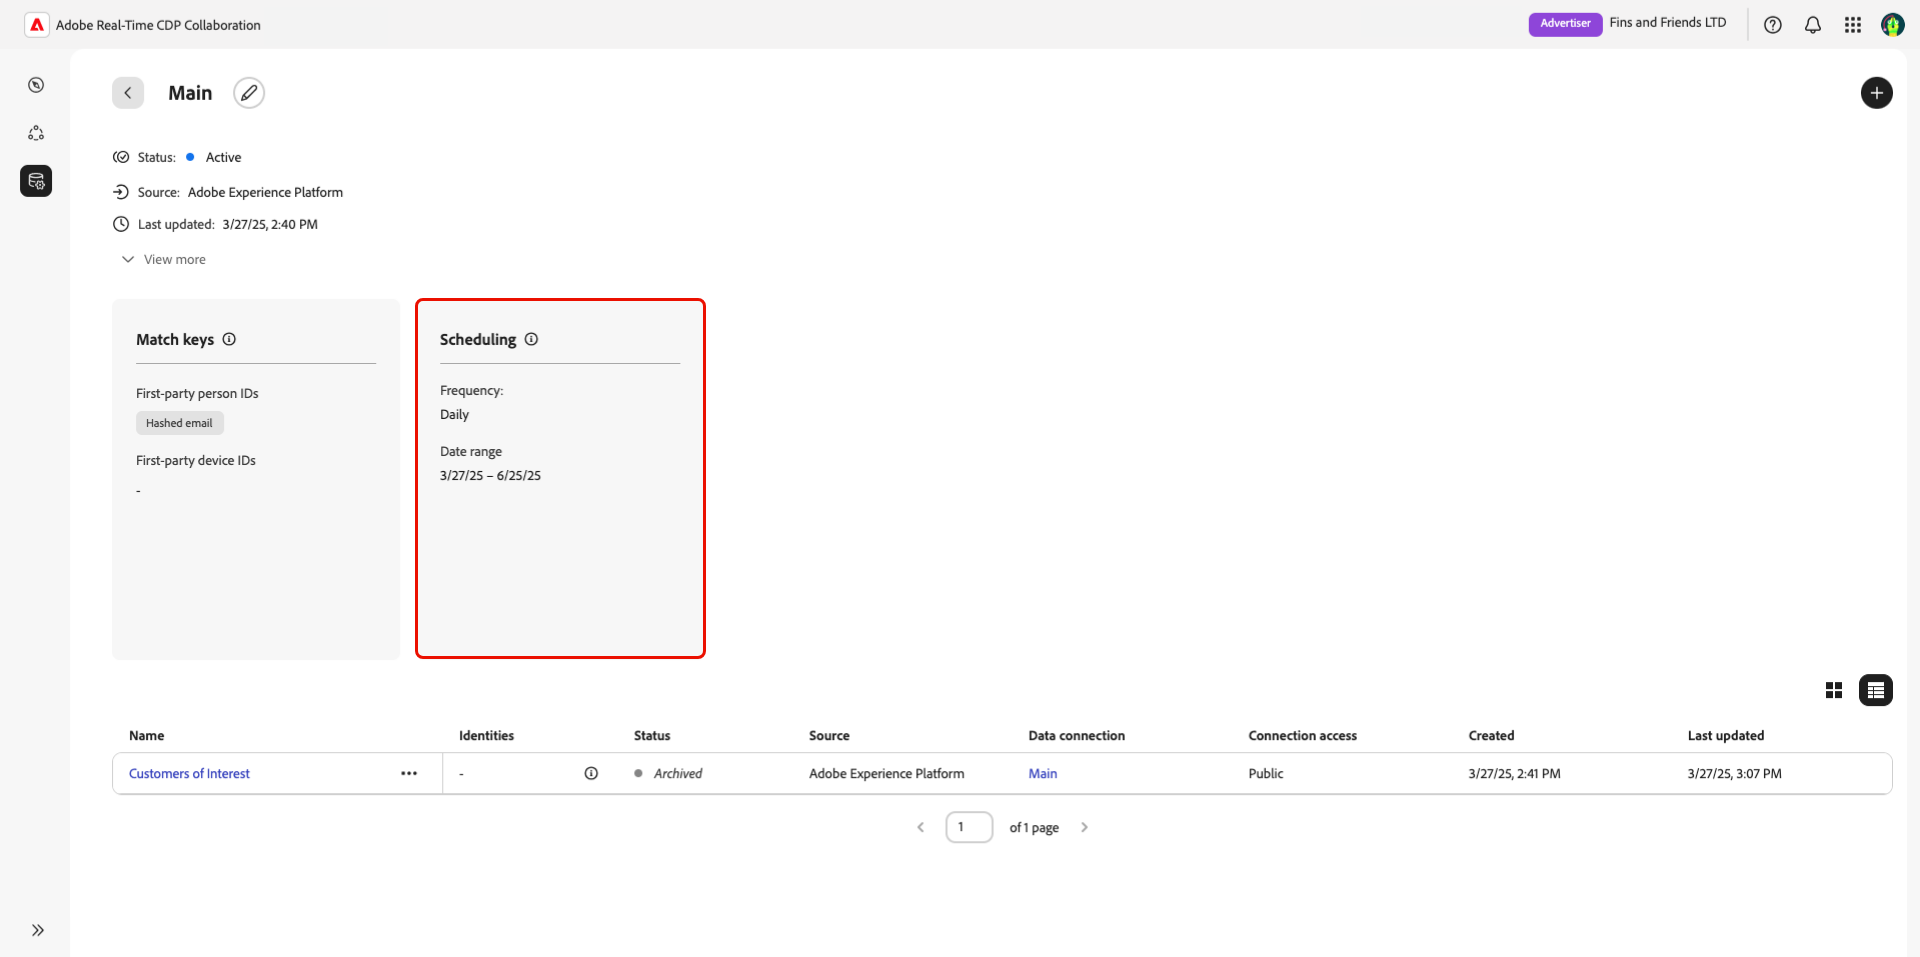
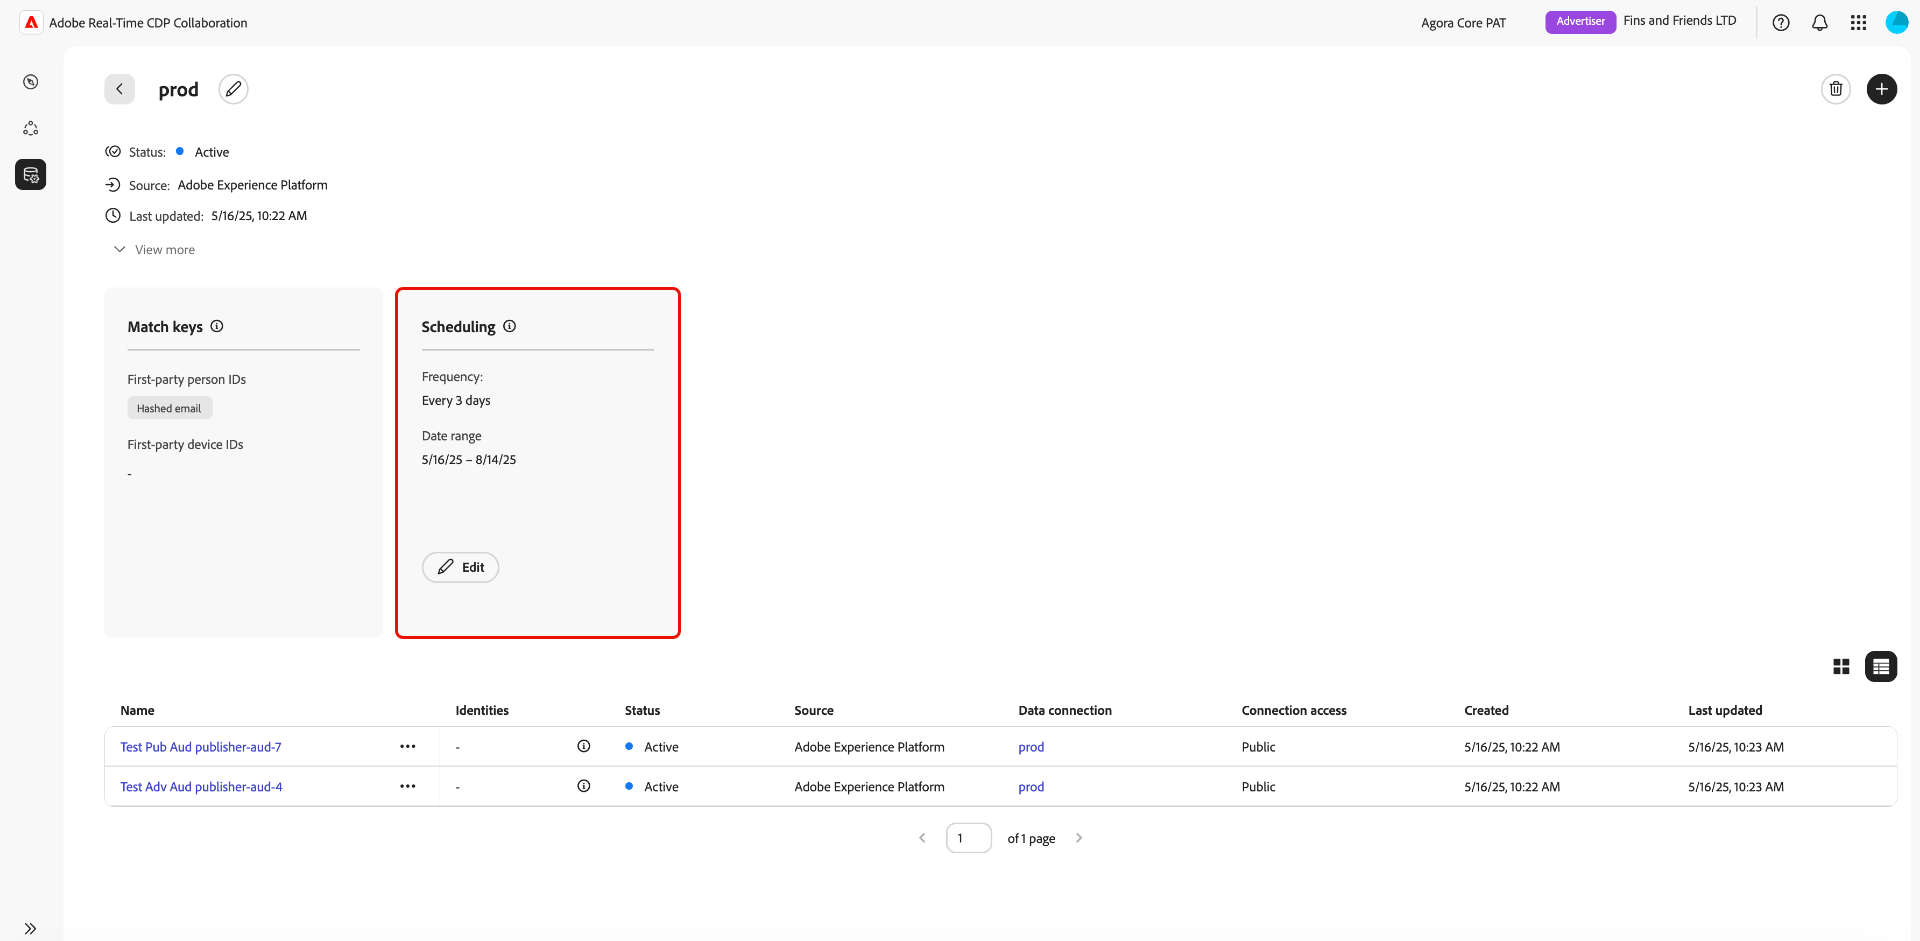
updates made as date range filter is not in development. Screenshots updated.

diff --git a/help/guide/setup/manage-data-connection.md b/help/guide/setup/manage-data-connection.md
@@ -39,15 +39,15 @@ Available match keys include:
 >[!CONTEXTUALHELP]
 >id="rtcdp_collaboration_manage_dataconnections_scheduling"
 >title="Scheduling"
->abstract="View and edit the scheduling options for your data connection, including refresh frequency and date range."
+>abstract="View the scheduling details for your data connection, and edit refresh frequency if required."
 
 View and manage the scheduling settings for your data connections. Scheduling determines how often audience data is refreshed from the source system.
 
-After a data connection is created, you can update its scheduling options directly from the **[!UICONTROL Scheduling]** section of the data connection workspace.
+After a data connection is created, you can update its refresh frequency directly from the **[!UICONTROL Scheduling]** section of the data connection workspace.
 
 >[!NOTE]
 >
->After an audience is sourced, the first export from Real-Time CDP occurs within 24 hours. Subsequent exports follow the refresh schedule defined in the data connection settings.
+>The first export from Real-Time CDP occurs within 24 hours after the audience is sourced. After the initial export, Real-Time CDP refreshes audience data according to the defined frequency.
 
 For more information about scheduling options during audience import, see the [scheduling section](/help/guide/setup/onboard-audiences.md#schedule) in the audience import workflow guide.
 
@@ -55,17 +55,15 @@ For more information about scheduling options during audience import, see the [s
 
 #### Edit scheduling {#edit-scheduling}
 
-You can edit the scheduling details of an existing data connection to better control how often audiences are refreshed.
+You can edit the frequency of an existing data connection to better control how often audiences are refreshed. To edit the schedule, select **[!UICONTROL Edit]**. 
 
-To edit the schedule, select  **[!UICONTROL Edit]**. In the **[!UICONTROL Scheduling]** dialog that appears, you can update the frequency, start date, and end date. Set the audience refresh to run daily or every two to six days. Choose a start date beginning tomorrow or later, and an end date at least one day after the start date. When you're done, select **[!UICONTROL Save]** to apply your changes.
+In the **[!UICONTROL Scheduling]** dialog, select the dropdown menu to update the **[!UICONTROL Frequency]**. Set the refresh frequency to run daily or every two to six days. When you're done, select **[!UICONTROL Save]** to apply your changes.
 
 >[!IMPORTANT]
 >
->You can update the frequency, start date, and end date. Other data connection settings, including match keys, cannot be edited.
+>You can update the refresh frequency. Other data connection settings, such as match keys, cannot be changed.
 
-![The Scheduling dialog, showing options to set frequency and date range.](/help/assets/setup/manage-data-connection/PLACEHOLDER.png){zoomable="yes" alt="The Scheduling dialog with editable fields for frequency, start date, and end date."}
-
-<!-- I am chasing the relevant feature flag to get a screenshot for this. -->
+![The Scheduling dialog, showing options to set frequency and date range.](../../assets/setup/manage-data-connection/scheduling-dialog.png){zoomable="yes" alt="The Scheduling dialog with editable fields for frequency."}
 
 ## Delete data connection
 
